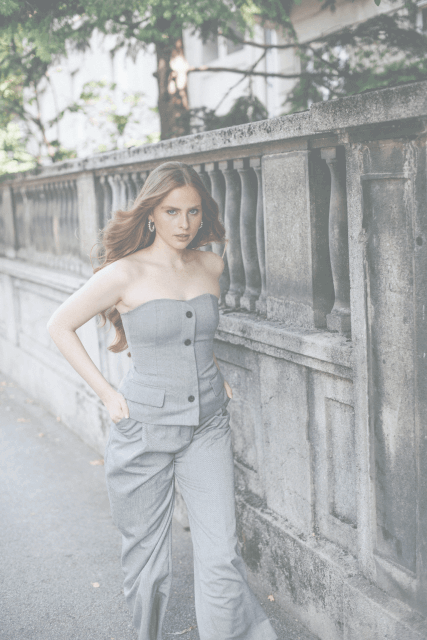
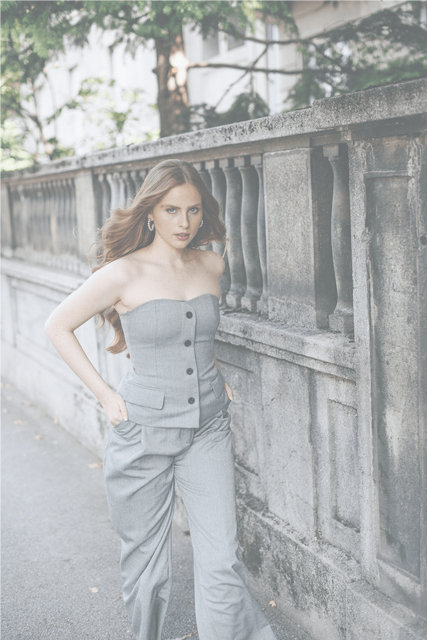
arena fix

diff --git a/templates/native/arena/sedam-trendova/index.php b/templates/native/arena/sedam-trendova/index.php
@@ -310,7 +310,7 @@
             <img src="<?php echo $native_path ?>/assets/images/arena18.png" style="margin-top: 15px; opacity: 0.4;" />
         </div>
         <div class="col-lg-3  wow fadeInLeft" data-wow-duration="0.5s" data-wow-delay="0.2s">
-            <img src="<?php echo $native_path ?>/assets/images/arena17.png" style="margin-top: 15px;" />
+            <img src="<?php echo $native_path ?>/assets/images/arena17.png?v=2" style="margin-top: 15px;" />
         </div>
         <div class="col-lg-3  wow fadeInLeft" data-wow-duration="0.5s" data-wow-delay="0s">
             <img src="<?php echo $native_path ?>/assets/images/arena18.png" style="margin-top: 15px;" />
